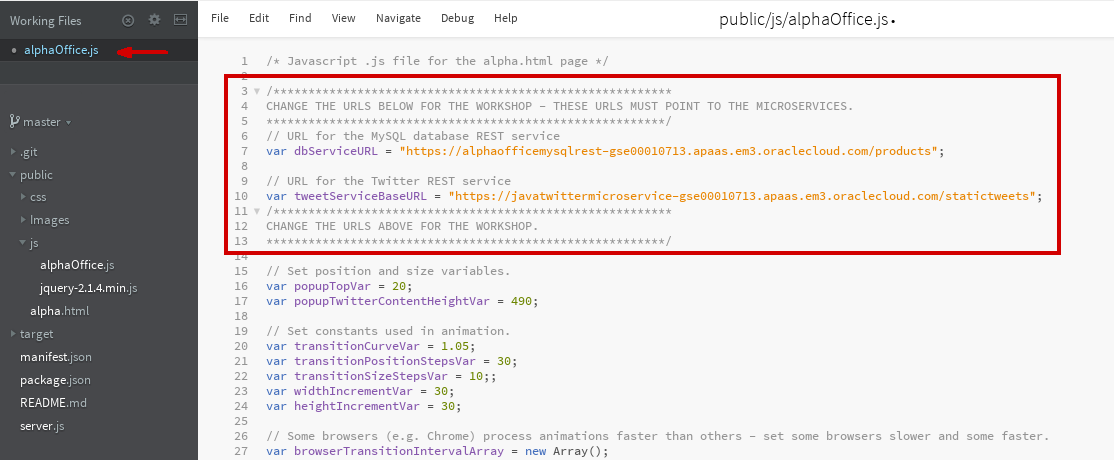
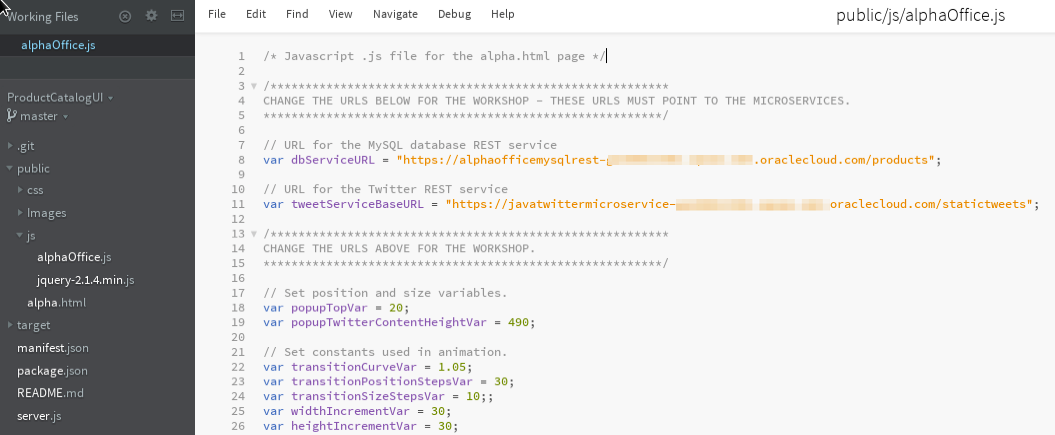
more updates. Added /products and /statictweets to the of the webservice urls

diff --git a/workshops/microservices-mysql/CloudNativeMySQL400.md b/workshops/microservices-mysql/CloudNativeMySQL400.md
@@ -271,11 +271,29 @@ Now that we have our default application, we want to modify this application to 
 
 ### **STEP 10**: Edit the UI Code
 
-- First go back to Developer Cloud Service to obtain the URLs for the two microservices created in Labs 200 and 300.  Click on **Deploy** in the console, and then right click on the name **AlphaOfficeMySQLREST** to copy the URL for the microservice.  Do the same for the **JavaTwitterMicroservice**.  Save these URLs because you will be pasting them into the UI code.
+- First go back to Developer Cloud Service to obtain the URLs for the two microservices created in Labs 200 and 300.  Click on **Deploy** in the console, and then right click on the name **AlphaOfficeMySQLREST** to copy the URL for the microservice. Save this URL, as you will use it later. 
 
     ![](images/400/image060.png)
 
-- In Brackets, choose the **public/js/alphaOffice.js** file to edit.  You will be pasting the URLs of the two microservices into the code in order to access these services.  Paste the URL for the **AlphaOfficeMySQLREST** microservice as the value for the Javascript variable **dbServiceURL**.  Paste the URL for the **JavaTwitterMicroservice** microservice as the value for the Javascript variable **twitterServiceBaseURL**.
+- Right click on the name **JavaTwitterMicroservice** to copy the URL for this microservice. Save this URL, as you will use it later. 
+
+    ![](images/400/image060.1.png)
+
+- In Brackets, choose the **public/js/alphaOffice.js** file to edit. 
+
+    ![](images/400/image062.1.png)
+
+
+- You will be pasting the URLs of the two microservices into the code in order to access these services.  Paste the URL for the **AlphaOfficeMySQLREST** microservice as the value for the Javascript variable **dbServiceURL**. ***Note:*** You must append **/products** to the end of the URL you coppied and pasted. 
+
+    ![](images/400/image062.2.png)
+
+
+- Paste the URL for the **JavaTwitterMicroservice** microservice as the value for the Javascript variable **twitterServiceBaseURL**. ***Note:*** You must append **/statictweets** to the end of the URL you coppied and pasted.
+
+    ![](images/400/image062.3.png)
+
+- The modified alphaOffice.js file shoudl appear as follows
 
     ![](images/400/image062.png)
 
